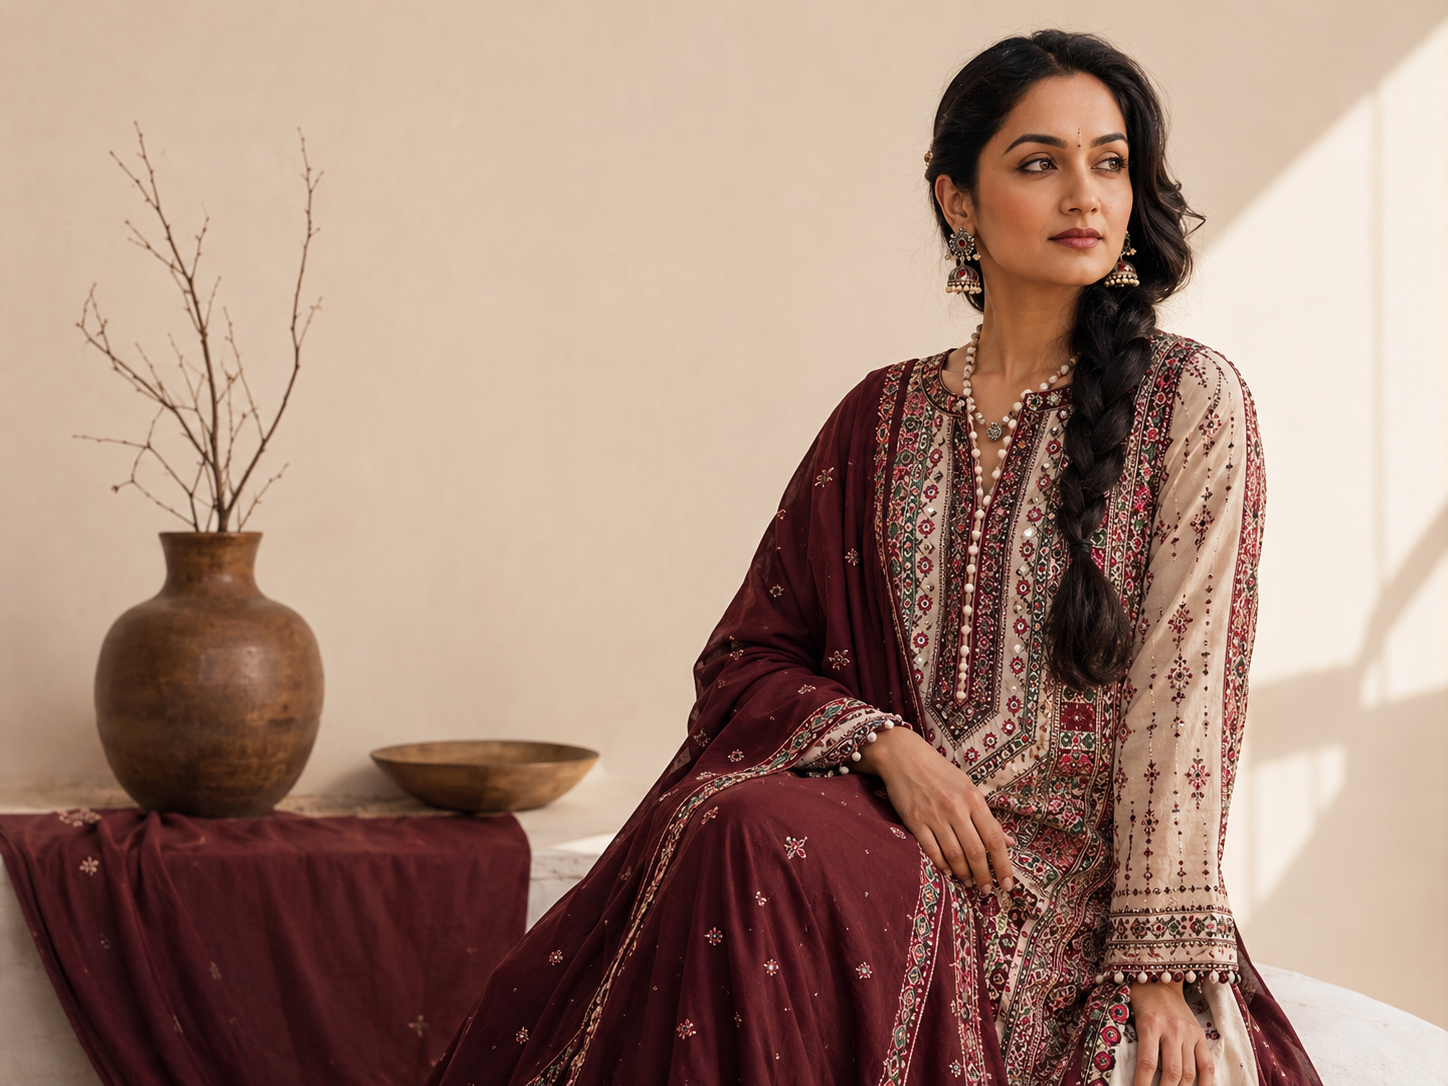
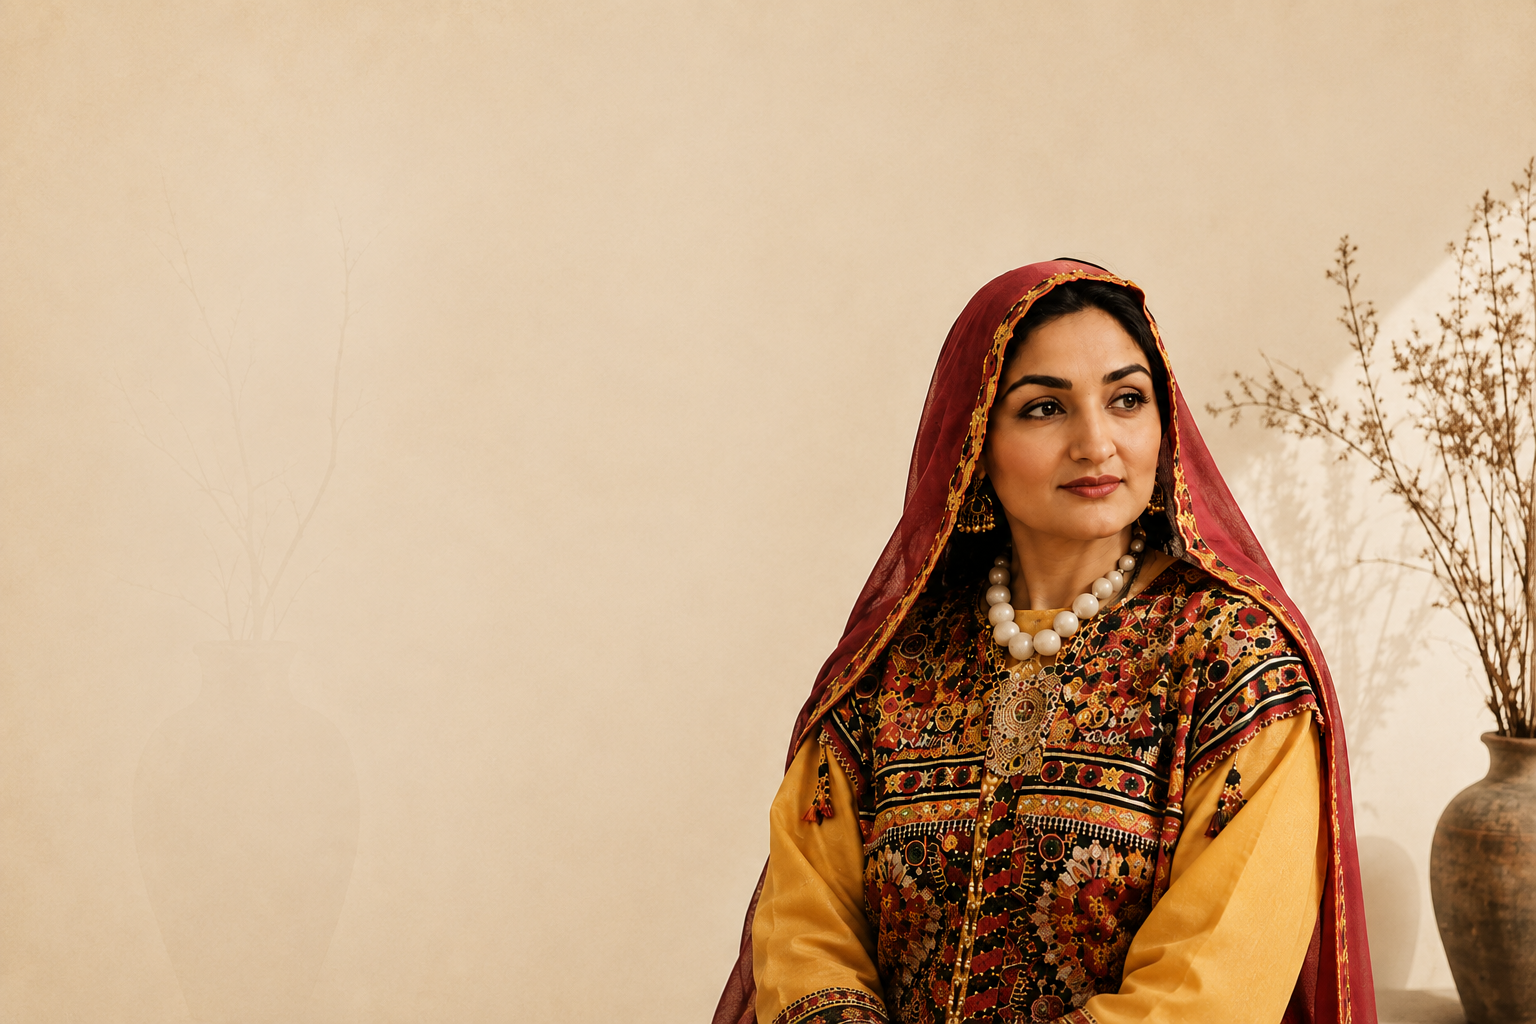
feat: replace homepage hero image with new heritage portrait
Swap the hero visual and tune object-position per breakpoint so the
subject's face stays in frame on desktop/tablet, and stack the image
above the copy on mobile (matching shop-hero) instead of overlaying
text on a crop that would clip her face.

diff --git a/src/app/globals.css b/src/app/globals.css
@@ -3544,6 +3544,13 @@ video.pdp-gallery__image { position: absolute; inset: 0; width: 100%; height: 10
   mask-image: linear-gradient(90deg, transparent 0%, rgb(0 0 0 / 0.06) 23%, #000 59%);
 }
 
+/* Editorial portrait: the woman sits in the right ~45% of the source
+   image, so object-position is tuned per breakpoint to keep her face
+   in frame without cropping it, whichever axis the container overflows. */
+.home-hero__image {
+  object-position: 84% 14%;
+}
+
 .home-hero__content {
   width: 100%;
   display: flex;
@@ -3558,6 +3565,19 @@ video.pdp-gallery__image { position: absolute; inset: 0; width: 100%; height: 10
 
 .home-hero-primary {
   color: var(--surface);
+}
+
+/* Tablet (portrait/landscape): the hero box is taller relative to its
+   width than on desktop, so pull the crop in a little further right
+   and keep the vertical anchor near the top so the face stays clear. */
+@media (min-width: 48rem) and (max-width: 63.99rem) {
+  .home-hero__image {
+    object-position: 98% 10%;
+  }
+
+  .home-hero__copy {
+    max-width: 20rem;
+  }
 }
 
 .home-product-edit {
@@ -4018,18 +4038,31 @@ video.pdp-gallery__image { position: absolute; inset: 0; width: 100%; height: 10
     min-width: 9.5rem;
   }
 
+  /* Below tablet width the overlay treatment has no room to keep the
+     subject's face clear of the copy, so the portrait becomes a
+     full-width banner stacked above the text instead of a background
+     the text sits on -- same pattern as .shop-hero at this width. */
   .home-hero {
-    min-height: 38rem;
+    flex-direction: column;
+    min-height: 0;
   }
 
   .home-hero__art {
-    -webkit-mask-image: linear-gradient(90deg, transparent 0%, rgb(0 0 0 / 0.16) 40%, #000 76%);
-    mask-image: linear-gradient(90deg, transparent 0%, rgb(0 0 0 / 0.16) 40%, #000 76%);
+    position: relative;
+    inset: auto;
+    width: 100%;
+    aspect-ratio: 3 / 2;
+    mask-image: none;
+    -webkit-mask-image: none;
   }
 
   .home-hero__content {
     align-items: flex-start;
-    padding-block: 4.5rem;
+    padding: 2.75rem var(--container-gutter) 3.5rem;
+  }
+
+  .home-hero__image {
+    object-position: 78% 12%;
   }
 }
 

diff --git a/src/components/home/home-hero.tsx b/src/components/home/home-hero.tsx
@@ -7,7 +7,7 @@ export function HomeHero() {
       <div className="home-hero__art" aria-hidden="true">
         <Image
           alt=""
-          className="object-cover object-[center_20%]"
+          className="home-hero__image object-cover"
           fill
           priority
           sizes="(min-width: 90rem) 90rem, 100vw"
